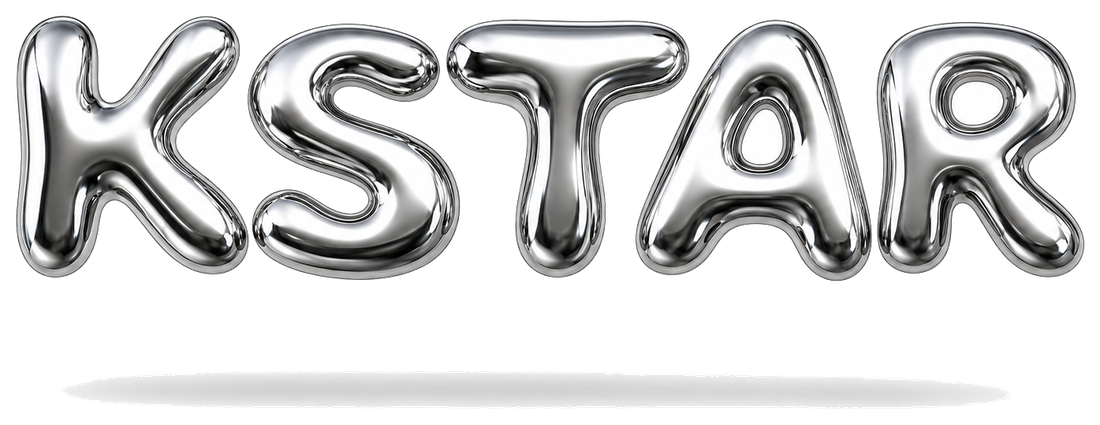
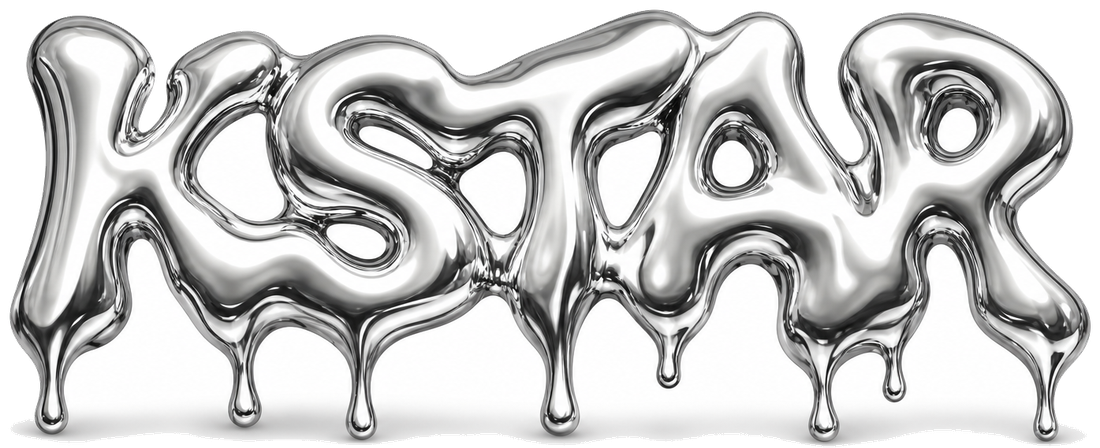
feat(brand): melted KSTAR, sticker chips, silver photo motifs
Swap in fused/dripping mercury KSTAR (POLE DANCE energy). Replace
static SOULCUTS / 靈魂四格 lines with tiny tilted sticker chips; drop
FIND YOUR NEXT FAVE. Remove spindle glow. Add medium silver-only
motifs inside every FourCuts card wash.

diff --git a/src/app/globals.css b/src/app/globals.css
@@ -316,41 +316,63 @@ html[data-ambient="flash"] .poster-spark {
   display: flex;
   flex-direction: column;
   align-items: center;
-  gap: 6px;
+  gap: 10px;
   width: 100%;
 }
-.hero-kicker {
-  font-family: var(--font-soft), "Fredoka", system-ui, sans-serif;
-  font-size: 11px;
-  font-weight: 600;
-  letter-spacing: 0.32em;
-  text-transform: uppercase;
-  color: rgba(90,100,120,0.65);
-  margin-bottom: 2px;
-}
-.hero-zh {
+.hero-chip-row {
   display: flex;
   align-items: center;
   justify-content: center;
-  gap: 12px;
-  width: 100%;
-  max-width: 280px;
-  margin: 2px auto 0;
-  font-family: var(--font-noto-tc), system-ui, sans-serif;
-  font-size: 12px;
-  font-weight: 600;
-  letter-spacing: 0.42em;
-  color: rgba(60,70,90,0.62);
-  text-indent: 0.42em;
-}
-.hero-zh-line {
-  flex: 1;
-  height: 1px;
-  background: linear-gradient(90deg, transparent, rgba(124,128,136,0.45), transparent);
-  max-width: 48px;
+  flex-wrap: wrap;
+  gap: 8px;
+  margin: -2px 0 2px;
 }
 
-/* Asset brand marks */
+/* Tiny sticker chips — fun, compact, no vertical sprawl */
+.sticker-chip {
+  display: inline-flex;
+  align-items: center;
+  justify-content: center;
+  padding: 4px 10px;
+  border-radius: 999px;
+  font-family: var(--font-soft), "Fredoka", system-ui, sans-serif;
+  font-size: 10px;
+  font-weight: 700;
+  letter-spacing: 0.16em;
+  text-transform: uppercase;
+  color: #3a3d44;
+  background: linear-gradient(180deg, #ffffff 0%, #e8ebf0 100%);
+  border: 1.5px solid rgba(174,179,187,0.75);
+  box-shadow:
+    inset 0 1px 0 rgba(255,255,255,0.95),
+    0 2px 0 rgba(124,128,136,0.18),
+    0 4px 10px rgba(90,100,120,0.12);
+  transform: rotate(-2deg);
+}
+.sticker-chip--zh {
+  letter-spacing: 0.2em;
+  text-indent: 0.08em;
+  text-transform: none;
+  font-family: var(--font-noto-tc), system-ui, sans-serif;
+  font-size: 11px;
+  transform: rotate(2.5deg);
+  color: #5e636d;
+}
+.sticker-chip--mini {
+  font-size: 9px;
+  padding: 2px 8px;
+  letter-spacing: 0.12em;
+  transform: rotate(-1deg);
+  box-shadow: inset 0 1px 0 rgba(255,255,255,0.9), 0 1px 0 rgba(124,128,136,0.15);
+}
+.soul-intro .ibD .sticker-chip {
+  background: linear-gradient(180deg, rgba(255,255,255,0.2), rgba(200,210,220,0.12));
+  border-color: rgba(255,255,255,0.35);
+  color: #e8ebf0;
+  box-shadow: 0 0 12px rgba(255,255,255,0.12);
+}
+
+/* Melted mercury KSTAR — tight shadow only (no spindle glow) */
 .brand-mark {
   display: inline-flex;
   align-items: center;
@@ -362,56 +384,20 @@ html[data-ambient="flash"] .poster-spark {
   height: auto;
   max-width: 100%;
   display: block;
-  filter: drop-shadow(0 10px 22px rgba(40,50,70,0.22));
+  filter: drop-shadow(0 8px 14px rgba(40,50,70,0.28));
 }
 .brand-mark.bm-hero .brand-mark-img {
-  width: min(78vw, 480px);
+  width: min(82vw, 500px);
   height: auto;
 }
 .brand-mark.bm-nav .brand-mark-img {
   width: 96px;
   height: auto;
-  filter: drop-shadow(0 2px 6px rgba(40,50,70,0.22));
+  filter: drop-shadow(0 2px 5px rgba(40,50,70,0.25));
 }
 .brand-mark.bm-intro .brand-mark-img {
-  width: min(78vw, 460px);
+  width: min(80vw, 480px);
   height: auto;
-}
-
-/* Quiet SOULCUTS — neutral mercury type, readable, no candy fills */
-.quiet-chrome {
-  font-family: var(--font-soft), "Fredoka", system-ui, sans-serif;
-  font-weight: 700;
-  letter-spacing: 0.34em;
-  text-indent: 0.34em;
-  text-transform: uppercase;
-  background: linear-gradient(
-    180deg,
-    #ffffff 0%,
-    #d8dde6 28%,
-    #8a909a 52%,
-    #c8ccd2 72%,
-    #f4f5f7 100%
-  );
-  -webkit-background-clip: text;
-  background-clip: text;
-  color: transparent;
-  -webkit-text-fill-color: transparent;
-  filter:
-    drop-shadow(0 1px 0 rgba(255,255,255,0.75))
-    drop-shadow(0 2px 6px rgba(60,70,90,0.22));
-}
-.brand-mark.bm-sub.quiet-chrome {
-  font-size: clamp(0.95rem, 2.4vw, 1.35rem);
-  line-height: 1.2;
-}
-.soul-intro .ibD .quiet-chrome {
-  background: linear-gradient(180deg, #ffffff 0%, #c8ccd2 40%, #8a909a 70%, #e8ebf0 100%);
-  -webkit-background-clip: text;
-  background-clip: text;
-  filter:
-    drop-shadow(0 1px 0 rgba(255,255,255,0.4))
-    drop-shadow(0 0 12px rgba(255,255,255,0.25));
 }
 
 /* Onboarding backdrop — same candy sky as home */
@@ -927,27 +913,17 @@ html { scroll-behavior: smooth; }
   position: relative; text-align: center; line-height: 0.96;
   display: flex; flex-direction: column; align-items: center; gap: 2px;
 }
-.soul-intro .ib-wordmark .ib-mark-zh {
-  display: flex; align-items: center; justify-content: center; gap: 12px;
-  margin-top: 8px; font-family: var(--font-noto-tc), system-ui, sans-serif;
-  font-size: 13px; font-weight: 600; letter-spacing: 0.4em; color: rgba(200,210,220,0.78); text-indent: 0.4em;
-}
-.soul-intro .ibE .ib-wordmark .ib-mark-zh { color: rgba(90,100,120,0.7); }
 .soul-intro .ib-candy-marks > .brand-mark,
-.soul-intro .ib-candy-marks > .ib-mark-zh {
+.soul-intro .ib-candy-marks > .hero-chip-row {
   opacity: 0;
 }
-.soul-intro .ibD.ib-play .ib-candy-marks > .brand-mark:nth-child(1),
-.soul-intro .ibE.ib-play .ib-candy-marks > .brand-mark:nth-child(1) {
+.soul-intro .ibD.ib-play .ib-candy-marks > .brand-mark,
+.soul-intro .ibE.ib-play .ib-candy-marks > .brand-mark {
   animation: hero-strip-pop 0.85s var(--ease-pop) 2.85s forwards;
 }
-.soul-intro .ibD.ib-play .ib-candy-marks > .brand-mark:nth-child(2),
-.soul-intro .ibE.ib-play .ib-candy-marks > .brand-mark:nth-child(2) {
+.soul-intro .ibD.ib-play .ib-candy-marks > .hero-chip-row,
+.soul-intro .ibE.ib-play .ib-candy-marks > .hero-chip-row {
   animation: ib-slogan-in 0.8s var(--ib-ease-out) 3.25s forwards;
-}
-.soul-intro .ibD.ib-play .ib-candy-marks > .ib-mark-zh,
-.soul-intro .ibE.ib-play .ib-candy-marks > .ib-mark-zh {
-  animation: ib-zh-in 0.9s var(--ib-ease-out) 3.5s forwards;
 }
 
 /* ── Shared: slogan ───────────────────────────────────────────────────── */
@@ -1250,11 +1226,10 @@ html[data-ambient="flash"] .hero-scroll {
 .fourcuts-chrome-inner {
   border-radius: 24px;
   background:
-    radial-gradient(90% 70% at 50% 0%, rgba(255,255,255,0.9) 0%, transparent 55%),
-    radial-gradient(70% 55% at 92% 18%, rgba(106,167,232,0.16) 0%, transparent 55%),
-    radial-gradient(55% 45% at 8% 85%, rgba(212,184,240,0.12) 0%, transparent 55%),
-    radial-gradient(50% 40% at 70% 100%, rgba(255,196,184,0.1) 0%, transparent 55%),
-    linear-gradient(180deg, #f7f9fc 0%, #eef1f6 100%);
+    radial-gradient(90% 70% at 50% 0%, rgba(255,255,255,0.95) 0%, transparent 55%),
+    radial-gradient(60% 50% at 100% 30%, rgba(174,179,187,0.18) 0%, transparent 55%),
+    radial-gradient(55% 45% at 0% 80%, rgba(124,128,136,0.1) 0%, transparent 55%),
+    linear-gradient(180deg, #f8f9fb 0%, #eef0f4 100%);
   border: 1px solid rgba(255,255,255,0.85);
   padding: 12px;
   position: relative;
@@ -1263,7 +1238,24 @@ html[data-ambient="flash"] .hero-scroll {
 .fourcuts-chrome-inner::before {
   content: none;
 }
-.fourcuts-chrome-inner > * { position: relative; z-index: 1; }
+.fourcuts-chrome-inner > *:not(.fc-silver-motifs) { position: relative; z-index: 1; }
+
+/* Medium silver-only motifs behind the photo grid */
+.fc-silver-motifs {
+  position: absolute;
+  inset: 0;
+  z-index: 0;
+  pointer-events: none;
+  overflow: hidden;
+}
+.fc-motif {
+  position: absolute;
+  color: #7c8088;
+  line-height: 1;
+  font-weight: 700;
+  text-shadow: 0 1px 0 rgba(255,255,255,0.8);
+  user-select: none;
+}
 .fourcuts-chrome .fc-cut {
   box-shadow:
     inset 0 0 0 1px rgba(255,255,255,0.35),

diff --git a/src/components/FourCuts.tsx b/src/components/FourCuts.tsx
@@ -1,10 +1,22 @@
-// 인생네컷 — "Life in 4 Cuts" photobooth strip. Pure presentational.
-// Chrome bezel elevates imperfect CC idol photos into a cohesive collectible.
+// 인생네컷 — photobooth strip with silver-only sticker motifs in the card wash.
 
 import Link from "next/link";
 import type { CardArtist } from "@/lib/lite";
 import { getGroupSymbol } from "@/lib/groupSymbols";
 import Thumb from "@/components/Thumb";
+
+const MOTIFS = [
+  { t: "✦", x: "5%", y: "8%", r: -12, s: 15, o: 0.38 },
+  { t: "✧", x: "90%", y: "7%", r: 18, s: 12, o: 0.32 },
+  { t: "◎", x: "93%", y: "40%", r: 0, s: 17, o: 0.26 },
+  { t: "✦", x: "3%", y: "46%", r: 22, s: 11, o: 0.3 },
+  { t: "◇", x: "91%", y: "70%", r: -8, s: 14, o: 0.28 },
+  { t: "✧", x: "7%", y: "76%", r: 14, s: 13, o: 0.34 },
+  { t: "○", x: "48%", y: "5%", r: 0, s: 10, o: 0.22 },
+  { t: "✦", x: "50%", y: "90%", r: -20, s: 12, o: 0.26 },
+  { t: "✧", x: "22%", y: "92%", r: 8, s: 10, o: 0.22 },
+  { t: "◇", x: "78%", y: "93%", r: -14, s: 11, o: 0.22 },
+] as const;
 
 export default function FourCuts({
   artists,
@@ -15,12 +27,29 @@ export default function FourCuts({
   artists: CardArtist[];
   className?: string;
   linked?: boolean;
-  /** id of a cut to play the single-cut re-develop animation on (e.g. after a swap) */
   developId?: string | null;
 }) {
   return (
     <div className={`fourcuts-chrome ${className}`}>
       <div className="fourcuts-chrome-inner">
+        <div className="fc-silver-motifs" aria-hidden="true">
+          {MOTIFS.map((m, i) => (
+            <span
+              key={i}
+              className="fc-motif"
+              style={{
+                left: m.x,
+                top: m.y,
+                fontSize: m.s,
+                opacity: m.o,
+                transform: `rotate(${m.r}deg)`,
+              }}
+            >
+              {m.t}
+            </span>
+          ))}
+        </div>
+
         <div className="grid grid-cols-2 gap-1.5">
           {artists.map((a) => {
             const sym = getGroupSymbol(a.group);
@@ -68,7 +97,7 @@ export default function FourCuts({
             <i style={{ height: 3 }} /><i style={{ height: 7 }} /><i style={{ height: 5 }} />
             <i style={{ height: 8 }} /><i style={{ height: 4 }} /><i style={{ height: 6 }} />
           </span>
-          <span className="font-soft tracking-[0.14em]">✦ KSTAR · SOULCUTS ✦</span>
+          <span className="sticker-chip sticker-chip--mini">SOULCUTS</span>
           <span className="font-soft tracking-[0.12em] text-[#9aa0aa]">01/04</span>
         </div>
       </div>

diff --git a/src/app/page.tsx b/src/app/page.tsx
@@ -1,5 +1,4 @@
 import { getAllArtistsLite } from "@/lib/data";
-import { copy } from "@/lib/copy";
 import MyFourCuts from "@/components/MyFourCuts";
 import IdolDirectory from "@/components/IdolDirectory";
 import BrandMark from "@/components/BrandMark";
@@ -11,7 +10,6 @@ export default async function Home() {
 
   return (
     <>
-      {/* ── Desktop: mercury KSTAR + quiet SOULCUTS + 인생네컷 ──── */}
       <section
         className="relative hidden md:flex flex-col items-center justify-center gap-5"
         style={{ height: "calc(100vh - 3.5rem - 2.5rem)", minHeight: 620 }}
@@ -19,13 +17,10 @@ export default async function Home() {
         <PosterFrame className="fourcuts-pop-in" serial="10072026" index="01">
           <div className="hero-stack">
             <BrandMark mark="kstar" className="bm-hero" />
-            <BrandMark mark="soulcuts" className="bm-sub" />
-            <p className="hero-zh">
-              <span className="hero-zh-line" />
-              <span>靈魂四格</span>
-              <span className="hero-zh-line" />
-            </p>
-            <p className="hero-kicker">{copy.taglineEn}</p>
+            <div className="hero-chip-row">
+              <BrandMark mark="soulcuts" />
+              <span className="sticker-chip sticker-chip--zh">靈魂四格</span>
+            </div>
             <div className="hero-strip-wrap">
               <MyFourCuts allArtists={artists} frameClassName="w-full" stripOnly />
             </div>
@@ -39,18 +34,14 @@ export default async function Home() {
         </a>
       </section>
 
-      {/* ── Mobile ────────────────────────────── */}
       <div className="space-y-5 md:hidden">
         <PosterFrame serial="10072026" index="01" className="w-full">
           <div className="hero-stack">
             <BrandMark mark="kstar" className="bm-hero" />
-            <BrandMark mark="soulcuts" className="bm-sub" />
-            <p className="hero-zh">
-              <span className="hero-zh-line" />
-              <span>靈魂四格</span>
-              <span className="hero-zh-line" />
-            </p>
-            <p className="hero-kicker">{copy.taglineEn}</p>
+            <div className="hero-chip-row">
+              <BrandMark mark="soulcuts" />
+              <span className="sticker-chip sticker-chip--zh">靈魂四格</span>
+            </div>
           </div>
         </PosterFrame>
         <MyFourCuts allArtists={artists} className="pt-1" />

diff --git a/src/components/IntroSplash.tsx b/src/components/IntroSplash.tsx
@@ -126,12 +126,10 @@ export default function IntroSplash() {
         <div className="ib-scene">
           <div className="ib-wordmark ib-candy-marks">
             <BrandMark mark="kstar" className="bm-intro" />
-            <BrandMark mark="soulcuts" className="bm-sub mt-1" />
-            <span className="ib-mark-zh">
-              <span className="hero-zh-line" />
-              <span>靈魂四格</span>
-              <span className="hero-zh-line" />
-            </span>
+            <div className="hero-chip-row ib-chip-row">
+              <BrandMark mark="soulcuts" />
+              <span className="sticker-chip sticker-chip--zh">靈魂四格</span>
+            </div>
           </div>
           <div className="ib-slogan">
             <div className="ib-en">FOUR PICKS · ONE SOUL</div>

diff --git a/src/components/Onboarding.tsx b/src/components/Onboarding.tsx
@@ -203,10 +203,11 @@ export default function Onboarding({ allArtists }: { allArtists: ArtistLite[] })
 
           {step === 2 && (
             <div className="ob-reveal">
-              <div>
-                <p className="ob-reveal-title">你的人生四格 ✦</p>
-                <p className="ob-reveal-sub">和你的本命合照一張</p>
+              <div className="hero-chip-row">
+                <span className="sticker-chip sticker-chip--zh">靈魂四格</span>
+                <span className="sticker-chip">SOULCUTS</span>
               </div>
+              <p className="ob-reveal-sub">和你的本命合照一張</p>
 
               <FourCuts artists={selectedArtists} className="w-full max-w-[280px]" />
 

diff --git a/src/components/BrandMark.tsx b/src/components/BrandMark.tsx
@@ -1,5 +1,5 @@
-// KSTAR = liquid-mercury sculpture asset.
-// SOULCUTS = quieter readable chrome type (neutral steel, no blue/purple fills).
+// KSTAR = melted liquid-mercury sculpture asset (half-logo / half-blob).
+// SOULCUTS = tiny sticker chip (fun, compact).
 
 type Mark = "kstar" | "soulcuts";
 
@@ -13,7 +13,7 @@ export default function BrandMark({
 }) {
   if (mark === "soulcuts") {
     return (
-      <span className={`brand-mark brand-mark--soulcuts quiet-chrome ${className}`} aria-label="SOULCUTS">
+      <span className={`sticker-chip sticker-chip--en ${className}`} aria-label="SOULCUTS">
         SOULCUTS
       </span>
     );